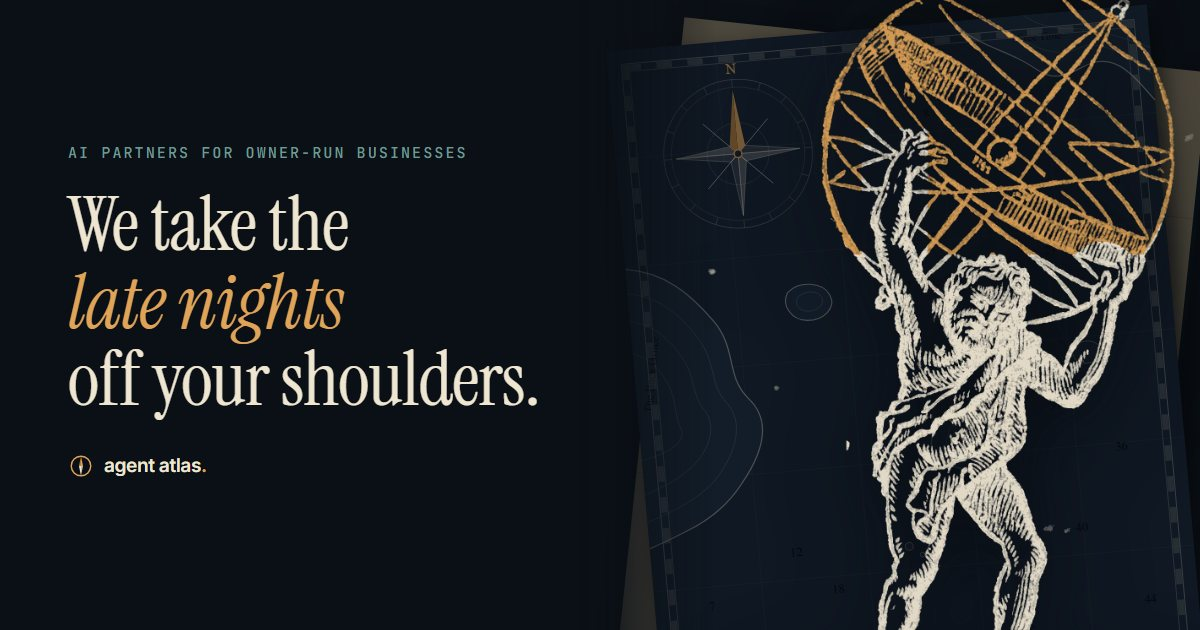
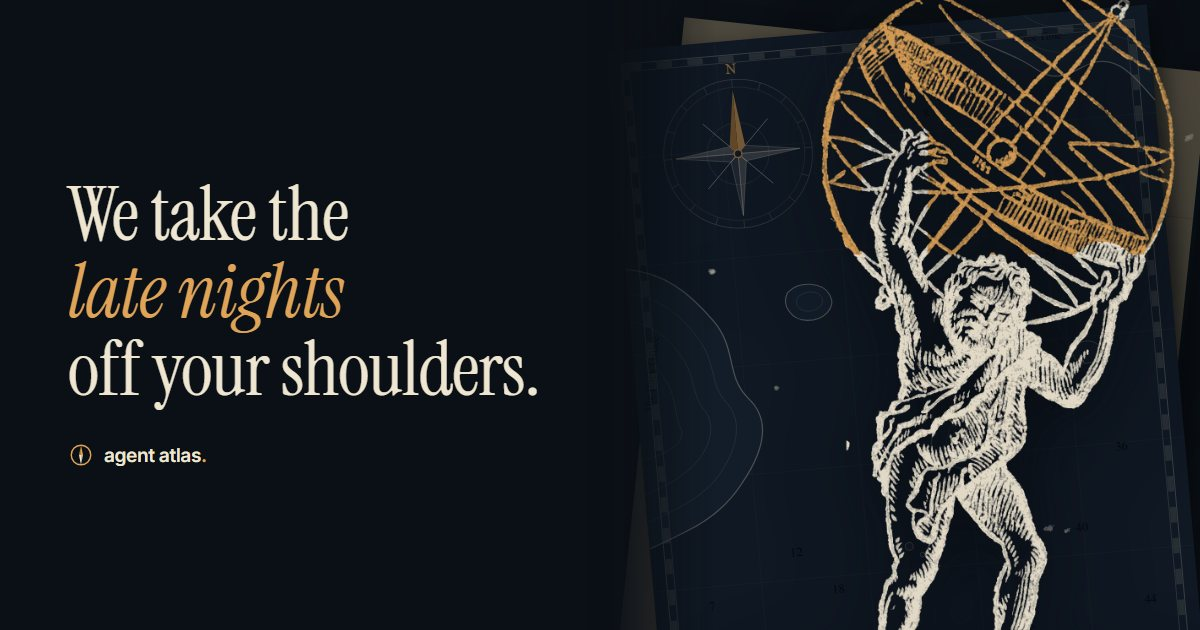
Update hero copy
- Intro: "You hold up the whole business. Show us your week in 10 minutes.
  We'll build out your AI agents that help run the business with you."
- Remove the "AI partners for owner-run businesses." eyebrow.
- The small line under both buttons now reads "We're your AI partners for
  your business." (replaces "One conversation. Under two hours of your
  time. No logins.").
- Share image rebuilt without the removed eyebrow.

Changed region(s): [[0.0308, 0.2714, 0.4625, 0.6635], [0.0925, 0.2111, 0.37, 0.2714], [0.0617, 0.6937, 0.185, 0.754]]

diff --git a/index.html b/index.html
@@ -60,7 +60,6 @@
 
   <!-- 1. Hero: headline on top, the chart below -->
   <section class="hero split" id="top" aria-labelledby="hero-title">
-    <p class="mono-label">AI partners for owner-run businesses.</p>
     <h1 class="hero-title" id="hero-title">
       <span class="sr-only">We take the late nights off your shoulders.</span>
       <span aria-hidden="true">
@@ -78,12 +77,12 @@
         <span class="line">off your shoulders.</span>
       </span>
     </h1>
-    <p class="hero-lede">You hold up the whole business. Show us your week, and within a few days we'll hand you something that lightens the load: built on your own files, free, and yours to keep.</p>
+    <p class="hero-lede">You hold up the whole business. Show us your week in 10 minutes. We'll build out your AI agents that help run the business with you.</p>
     <div class="hero-cta">
       <a class="btn" href="https://calendar.app.google/9yiSGbYBQ8tbTDGTA" target="_blank" rel="noopener">
         Get your free first win <span class="arrow" aria-hidden="true">↗</span>
       </a>
-      <p class="fine">One conversation. Under two hours of your time. No logins.</p>
+      <p class="fine">We're your AI partners for your business.</p>
     </div>
 
     <a class="scroll-cue mono-label" href="#how-it-works">How it works</a>
@@ -318,7 +317,7 @@
       <a class="btn" href="https://calendar.app.google/9yiSGbYBQ8tbTDGTA" target="_blank" rel="noopener">
         Get your free first win <span class="arrow" aria-hidden="true">↗</span>
       </a>
-      <p class="fine">One conversation. Under two hours of your time. No logins.</p>
+      <p class="fine">We're your AI partners for your business.</p>
     </div>
   </section>
 </main>

diff --git a/assets/site.css b/assets/site.css
@@ -149,7 +149,7 @@ section { scroll-margin-top: calc(var(--nav-h) + 8px); }
 }
 .reel-track > span { display: block; height: 1.26em; line-height: 1.26em; white-space: nowrap; }
 .hero-lede {
-  margin-top: 26px; max-width: 34ch;
+  margin-top: 26px; max-width: 38ch;
   font-size: 18.5px; line-height: 1.55; color: var(--muted);
 }
 .hero-cta { margin-top: 34px; display: flex; flex-direction: column; align-items: flex-start; gap: 14px; }
